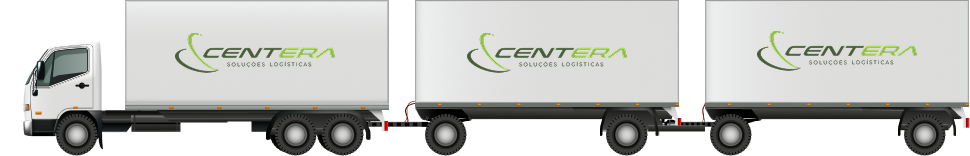
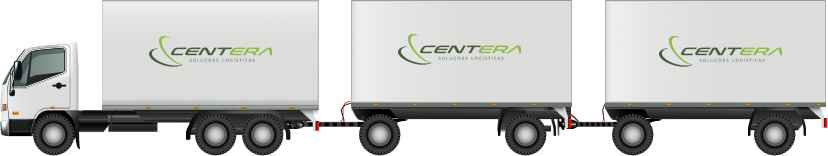
ajustes imagens caminhoes e eixos

diff --git a/src/app/content/caminhoneData.ts b/src/app/content/caminhoneData.ts
@@ -10,8 +10,7 @@ export const caminhoneData = [
     comprimentoMaximo: "14,00m",
     caminhaoImg: "/truck/2-eixos.png",
     eixoImg: [
-      { tipo: "simples", img: "/axis/um/simples.png" },
-      { tipo: "trucado", img: "/axis/um/duplo.png" }
+      { tipo: "simples", img: "/axis/c1.png" },
     ]
   },
   {
@@ -25,10 +24,7 @@ export const caminhoneData = [
     comprimentoMaximo: "14,00m",
     caminhaoImg: "/truck/3-eixos.png",
     eixoImg: [
-     { tipo: "simples", img: "/axis/duplo/simples.png" },
-     { tipo: "trucado", img: "/axis/duplo/duplo.png" },
-     { tipo: "trucado2", img: "/axis/duplo/duplo-2.png" },
-     { tipo: "trucado3", img: "/axis/duplo/duplo-3.png" }
+      { tipo: "simples", img: "/axis/c2.png" },
     ]
   },
   {
@@ -42,10 +38,7 @@ export const caminhoneData = [
     comprimentoMaximo: "18,60m",
     caminhaoImg: "/truck/4-eixos.png",
     eixoImg: [
-      { tipo: "simples", img: "/axis/um/simples.png" },
-         { tipo: "trucado", img: "/axis/duplo/duplo.png" },
-     { tipo: "trucado2", img: "/axis/duplo/duplo-2.png" },
-     { tipo: "trucado3", img: "/axis/duplo/duplo-3.png" }
+      { tipo: "simples", img: "/axis/c3.png" },
     ]
   },
   {
@@ -58,7 +51,9 @@ export const caminhoneData = [
     comprimentoMinimo: "16m",
     comprimentoMaximo: "19,80m",
     caminhaoImg: "/truck/4-eixos-2.png",
-    eixoImg: []
+    eixoImg: [
+      { tipo: "simples", img: "/axis/c3-1.png" },
+    ]
   },
   {
     codigo: "C4",
@@ -71,13 +66,7 @@ export const caminhoneData = [
     comprimentoMaximo: "18,60m",
     caminhaoImg: "/truck/5-eixos.png",
     eixoImg: [
-         { tipo: "trucado", img: "/axis/duplo/duplo.png" },
-     { tipo: "trucado2", img: "/axis/duplo/duplo-2.png" },
-     { tipo: "trucado3", img: "/axis/duplo/duplo-3.png" },
-     { tipo: "trucado4", img: "/axis/tripo/simples.png" },
-      { tipo: "trucado5", img: "/axis/tripo/duplo.png" },
-      { tipo: "trucado6", img: "/axis/tripo/duplo-2.png" },
-      { tipo: "trucado7", img: "/axis/tripo/duplo-3.png" }
+      { tipo: "trucado", img: "/axis/c4.png" },
     ]
   },
   {
@@ -90,7 +79,9 @@ export const caminhoneData = [
     comprimentoMinimo: "Vide nota",
     comprimentoMaximo: "18,60m",
     caminhaoImg: "/truck/5-eixos-2.png",
-    eixoImg: []
+    eixoImg: [
+      { tipo: "trucado", img: "/axis/c4-1.png" },
+    ]
   },
   {
     codigo: "C4.2",
@@ -102,7 +93,9 @@ export const caminhoneData = [
     comprimentoMinimo: "16m",
     comprimentoMaximo: "18,6m",
     caminhaoImg: "/truck/5-eixos-5.png",
-    eixoImg: []
+    eixoImg: [
+      { tipo: "trucado", img: "/axis/c4-2.png" },
+    ]
   },
   {
     codigo: "C4.3",
@@ -114,7 +107,9 @@ export const caminhoneData = [
     comprimentoMinimo: "16m",
     comprimentoMaximo: "19,60m",
     caminhaoImg: "/truck/5-eixos-3.png",
-    eixoImg: []
+    eixoImg: [
+      { tipo: "trucado", img: "/axis/c4-3.png" },
+    ]
   },
   {
     codigo: "C4.4",
@@ -126,7 +121,9 @@ export const caminhoneData = [
     comprimentoMinimo: "16m",
     comprimentoMaximo: "19,60m",
     caminhaoImg: "/truck/5-eixos-4.png",
-    eixoImg: []
+    eixoImg: [
+      { tipo: "trucado", img: "/axis/c4-4.png" },
+    ]
   },
   {
     codigo: "C5",
@@ -139,13 +136,7 @@ export const caminhoneData = [
     comprimentoMaximo: "19,80m",
     caminhaoImg: "/truck/6-eixos-2.png",
     eixoImg: [
-          { tipo: "trucado", img: "/axis/duplo/duplo.png" },
-     { tipo: "trucado2", img: "/axis/duplo/duplo-2.png" },
-     { tipo: "trucado3", img: "/axis/duplo/duplo-3.png" },
-     { tipo: "trucado4", img: "/axis/tripo/simples.png" },
-      { tipo: "trucado5", img: "/axis/tripo/duplo.png" },
-      { tipo: "trucado6", img: "/axis/tripo/duplo-2.png" },
-      { tipo: "trucado7", img: "/axis/tripo/duplo-3.png" }
+      { tipo: "trucado", img: "/axis/c5.png" },
     ]
   },
   {
@@ -158,7 +149,9 @@ export const caminhoneData = [
     comprimentoMinimo: "16,00m",
     comprimentoMaximo: "18,60m",
     caminhaoImg: "/truck/6-eixos-4.png",
-    eixoImg: []
+    eixoImg: [
+      { tipo: "trucado", img: "/axis/c5-1.png" },
+    ]
   },
   {
     codigo: "C5.2",
@@ -170,7 +163,9 @@ export const caminhoneData = [
     comprimentoMinimo: "16,00m",
     comprimentoMaximo: "18,60m",
     caminhaoImg: "/truck/6-eixos.png",
-    eixoImg: []
+    eixoImg: [
+      { tipo: "trucado", img: "/axis/c5-2.png" },
+    ]
   },
   {
     codigo: "C5.3",
@@ -182,7 +177,9 @@ export const caminhoneData = [
     comprimentoMinimo: "16,00m",
     comprimentoMaximo: "18,60m",
     caminhaoImg: "/truck/6-eixos-3.png",
-    eixoImg: []
+    eixoImg: [
+      { tipo: "trucado", img: "/axis/c5-3.png" },
+    ]
   },
   {
     codigo: "C6",
@@ -195,10 +192,7 @@ export const caminhoneData = [
     comprimentoMaximo: "30,00m",
     caminhaoImg: "/truck/7-eixos.png",
     eixoImg: [
-          { tipo: "trucado", img: "/axis/duplo/duplo.png" },
-     { tipo: "trucado2", img: "/axis/duplo/duplo-2.png" },
-     { tipo: "trucado3", img: "/axis/duplo/duplo-3.png" },
-  
+      { tipo: "trucado", img: "/axis/c6.png" },
     ]
   },
   {
@@ -212,7 +206,7 @@ export const caminhoneData = [
     comprimentoMaximo: "19,80m",
     caminhaoImg: "/truck/7-eixos-2.png",
     eixoImg: [
-      
+      { tipo: "trucado", img: "/axis/c6-1.png" },
     ]
   },
   {
@@ -226,15 +220,7 @@ export const caminhoneData = [
     comprimentoMaximo: "30,00m",
     caminhaoImg: "/truck/8-eixos.png",
     eixoImg: [
-       { tipo: "simples-trucado", img: "/axis/um/duplo.png" },
-
-       { tipo: "trucado", img: "/axis/duplo/duplo.png" },
-     { tipo: "trucado2", img: "/axis/duplo/duplo-2.png" },
-     { tipo: "trucado3", img: "/axis/duplo/duplo-3.png" },
-     { tipo: "trucado4", img: "/axis/tripo/simples.png" },
-      { tipo: "trucado5", img: "/axis/tripo/duplo.png" },
-      { tipo: "trucado6", img: "/axis/tripo/duplo-2.png" },
-      { tipo: "trucado7", img: "/axis/tripo/duplo-3.png" }
+      { tipo: "simples-trucado", img: "/axis/c7.png" },
     ]
   },
   {
@@ -248,15 +234,7 @@ export const caminhoneData = [
     comprimentoMaximo: "30,00m",
     caminhaoImg: "/truck/9-eixos.png",
     eixoImg: [
-     { tipo: "simples-trucado", img: "/axis/um/duplo.png" },
-
-       { tipo: "trucado", img: "/axis/duplo/duplo.png" },
-     { tipo: "trucado2", img: "/axis/duplo/duplo-2.png" },
-     { tipo: "trucado3", img: "/axis/duplo/duplo-3.png" },
-     { tipo: "trucado4", img: "/axis/tripo/simples.png" },
-      { tipo: "trucado5", img: "/axis/tripo/duplo.png" },
-      { tipo: "trucado6", img: "/axis/tripo/duplo-2.png" },
-      { tipo: "trucado7", img: "/axis/tripo/duplo-3.png" }
+      { tipo: "simples-trucado", img: "/axis/c8.png" },
     ]
   },
   {
@@ -270,7 +248,7 @@ export const caminhoneData = [
     comprimentoMaximo: "30,00m",
     caminhaoImg: "/truck/9-eixos-4.png",
     eixoImg: [
-     
+      { tipo: "simples-trucado", img: "/axis/c8-1.png" },
     ]
   },
   {
@@ -284,7 +262,7 @@ export const caminhoneData = [
     comprimentoMaximo: "30,00m",
     caminhaoImg: "/truck/9-eixos-5.png",
     eixoImg: [
-     
+      { tipo: "simples-trucado", img: "/axis/c8-2.png" },
     ]
   }
 ];
